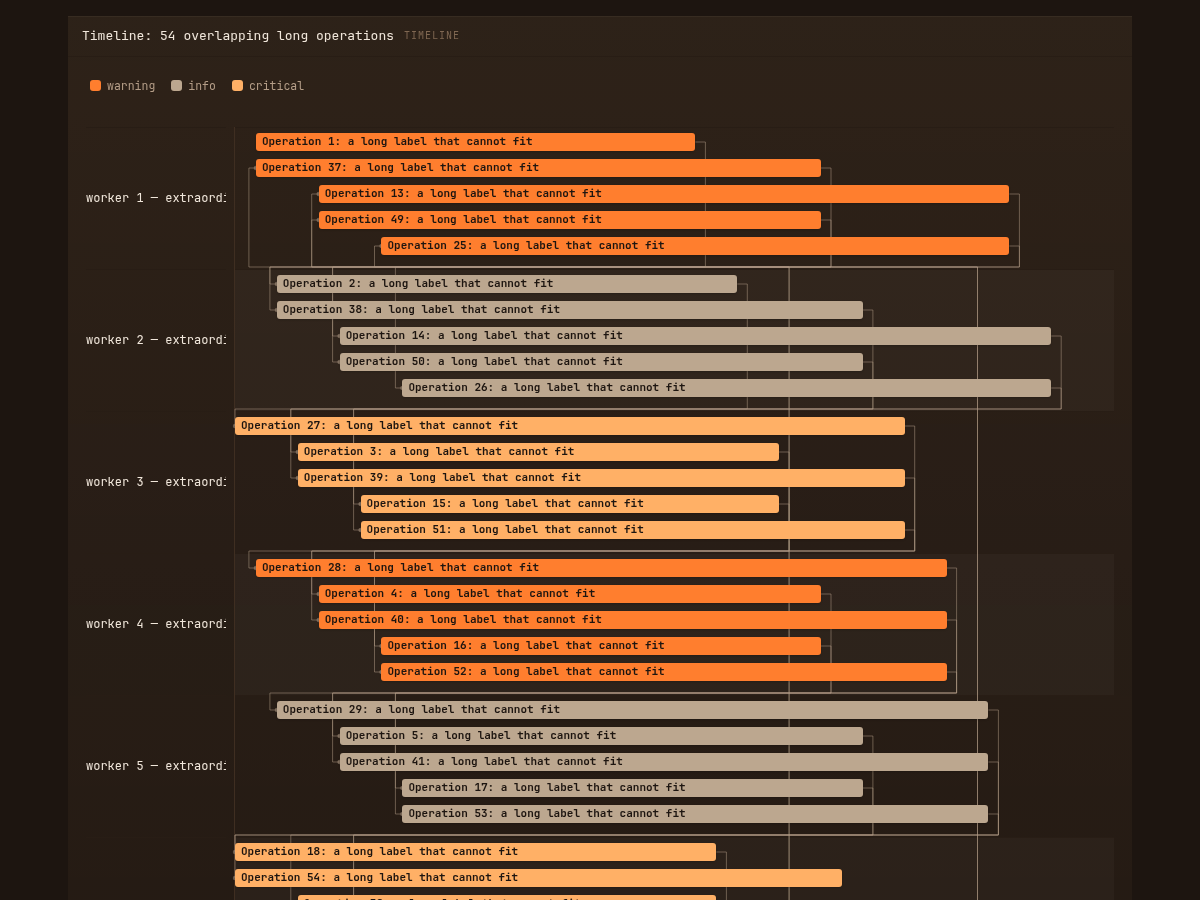
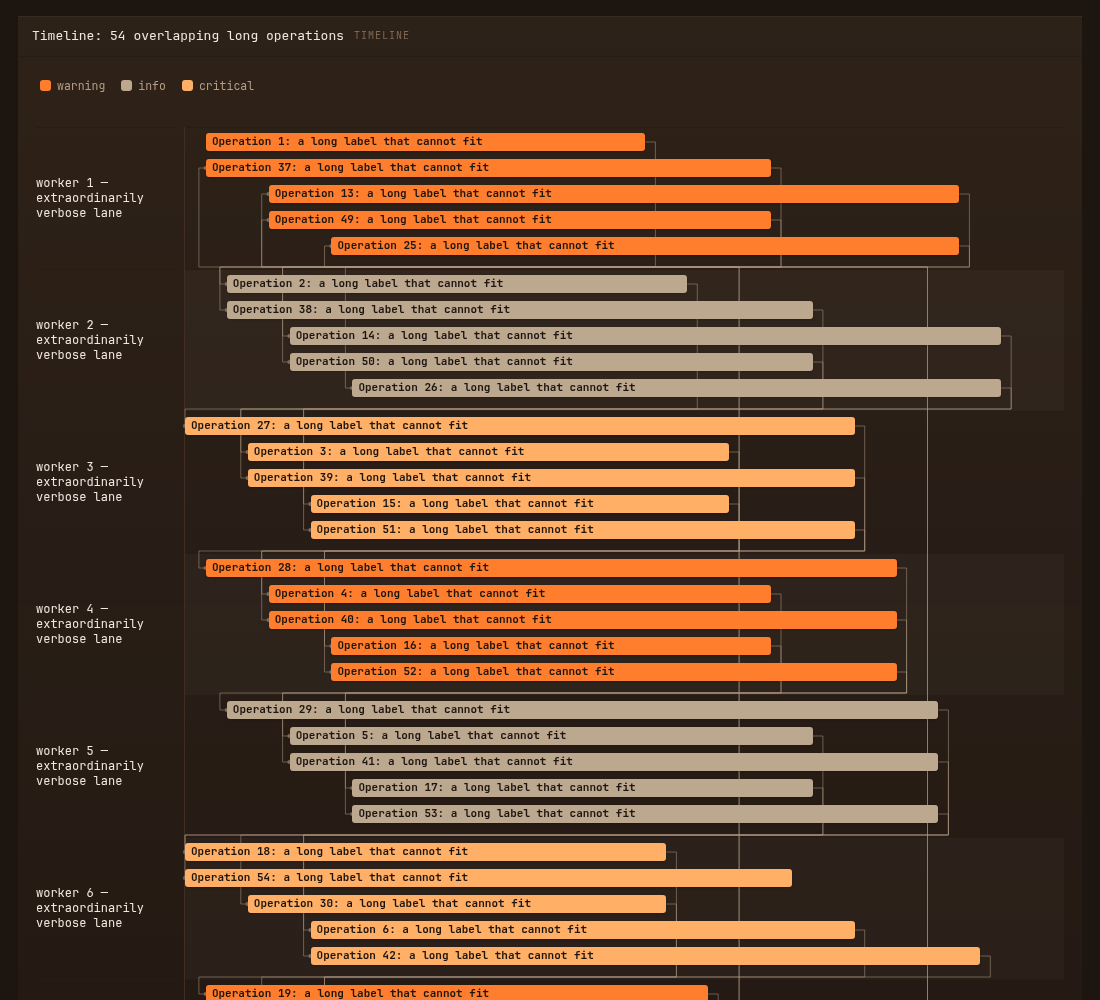
fix: wrap timeline lane labels

diff --git a/src/assets/index.html b/src/assets/index.html
@@ -536,8 +536,9 @@
   .tl { display: grid; grid-template-columns: var(--tl-gutter) 1fr; }
   .tl-gutter { position: relative; }
   .tl-lane-label { position: absolute; left: 0; right: 8px; display: flex; align-items: center;
-    font-size: 12px; color: var(--fg); overflow: hidden; text-overflow: ellipsis; white-space: nowrap;
-    border-top: 1px solid var(--line-soft); padding-right: 6px; }
+    font-size: 12px; color: var(--fg); overflow: hidden; border-top: 1px solid var(--line-soft); padding-right: 6px; }
+  .tl-lane-text { display: -webkit-box; width: 100%; overflow: hidden; line-height: 15px;
+    overflow-wrap: anywhere; -webkit-box-orient: vertical; -webkit-line-clamp: 4; line-clamp: 4; }
   .tl-plot { position: relative; overflow: visible; border-left: 1px solid var(--line); }
   .tl-band { position: absolute; left: 0; right: 0; border-top: 1px solid var(--line-soft); }
   .tl-band.alt { background: color-mix(in srgb, var(--fg) 3%, transparent); }
@@ -4147,6 +4148,7 @@
   // auto-detected. Dependency connectors, --event markers and a hover cursor
   // are drawn by hydrateTimelines() over an SVG overlay (see below).
   const TL_ROW_H = 26, TL_BAR_H = 18, TL_LANE_PAD = 6;
+  const TL_LANE_LABEL_W = 132, TL_LANE_LABEL_LINE_H = 15, TL_LANE_LABEL_MAX_LINES = 4;
   // Let short trace spans be inspected down to 1ms, regardless of how broad
   // the original timeline was. A brush can be nested repeatedly to reach that
   // precision even when one physical screen pixel covers more time initially.
@@ -4154,6 +4156,29 @@
   const TL_MIN_BRUSH_FRACTION = 0.001;
   let tlSeq = 0;
   const tlPayloads = {};   // per-render overlay payloads, consumed on hydrate
+  let tlLaneMeasureCtx = null;
+
+  function tlLaneLabelLines(label) {
+    if (!tlLaneMeasureCtx) {
+      tlLaneMeasureCtx = document.createElement("canvas").getContext("2d");
+      if (tlLaneMeasureCtx) tlLaneMeasureCtx.font = "12px system-ui, -apple-system, sans-serif";
+    }
+    const width = (text) => tlLaneMeasureCtx
+      ? tlLaneMeasureCtx.measureText(text).width : String(text).length * 6.5;
+    const words = String(label).trim().split(/\s+/).filter(Boolean);
+    if (!words.length) return 1;
+    let lines = 0, line = "";
+    for (const word of words) {
+      if (width(word) > TL_LANE_LABEL_W) {
+        if (line) { lines++; line = ""; }
+        lines += Math.ceil(width(word) / TL_LANE_LABEL_W);
+      } else if (!line) line = word;
+      else if (width(line + " " + word) <= TL_LANE_LABEL_W) line += " " + word;
+      else { lines++; line = word; }
+      if (lines >= TL_LANE_LABEL_MAX_LINES) return TL_LANE_LABEL_MAX_LINES;
+    }
+    return Math.min(TL_LANE_LABEL_MAX_LINES, lines + (line ? 1 : 0));
+  }
 
   function tlFmtDur(s) {
     s = Number(s);
@@ -4349,14 +4374,18 @@
         b.sub = sl;
       });
       const subCount = Math.max(1, subEnds.length);
-      const top = y, height = subCount * TL_ROW_H + TL_LANE_PAD * 2;
+      const labelLines = tlLaneLabelLines(lane);
+      const barsHeight = subCount * TL_ROW_H;
+      const labelHeight = labelLines * TL_LANE_LABEL_LINE_H + TL_LANE_PAD * 2;
+      const top = y, height = Math.max(barsHeight + TL_LANE_PAD * 2, labelHeight);
+      const barsTop = top + (height - barsHeight) / 2;
       list.forEach((b) => {
-        b.topPx = top + TL_LANE_PAD + b.sub * TL_ROW_H;
+        b.topPx = barsTop + b.sub * TL_ROW_H;
         b.laneTopPx = top;
         b.laneHeightPx = height;
         b.color = barColor(b, laneIndex);
       });
-      laneRows.push({ lane, top, height });
+      laneRows.push({ lane, top, height, labelLines });
       y += height;
     });
     const totalH = y;
@@ -4373,7 +4402,7 @@
     }).join("");
     const gutterHtml = laneRows.map((lr) => {
       const tip = `<b>Lane</b><br>${esc(lr.lane)}`;
-      return `<div class="tl-lane-label wm-x" data-tip="${attr(tip)}" style="top:${lr.top}px;height:${lr.height}px">${esc(lr.lane)}</div>`;
+      return `<div class="tl-lane-label wm-x" data-tip="${attr(tip)}" style="top:${lr.top}px;height:${lr.height}px"><span class="tl-lane-text">${esc(lr.lane)}</span></div>`;
     }).join("");
     const bandsHtml = laneRows.map((lr, i) =>
       `<div class="tl-band${i % 2 ? " alt" : ""}" style="top:${lr.top}px;height:${lr.height}px"></div>`).join("");

diff --git a/graph-torture-report/index.html b/graph-torture-report/index.html
@@ -40,7 +40,7 @@
   <article class="bug"><h3>Bug 8 — Dense heatmap has clipped axes and exceeds the viewport</h3><p><span class="severity">High</span> · The rightmost column labels/cells are cut at the panel edge and lower rows extend beyond the screenshot. At this density it has neither an overview nor a clearly discoverable way to inspect omitted cells.</p><figure><img src="screenshots/heatmap_dense.png" alt="30 by 30 heatmap clipped on right and bottom"><figcaption>heatmap_dense</figcaption></figure></article>
   <article class="bug"><h3>Bug 9 — Box plot uses extreme horizontal whitespace while scale hides boxes</h3><p><span class="severity">High</span> · One huge whisker pushes the compact distributions into tiny marks near the left. Thirty verbose cohort descriptions produce an unusually tall tile, so the comparison is not visible above the fold.</p><figure><img src="screenshots/box_many.png" alt="Tall box plot with tiny boxes due to one huge whisker"><figcaption>box_many</figcaption></figure></article>
   <article class="bug"><h3>Bug 10 — Co-located map data reduces 299 points to one unexplained cell</h3><p><span class="severity">Medium</span> · The summary says “299 plotted · 1 cells”, but the dense point cluster is represented by a single small mark. Its aggregation and labels are not visible without interaction, making this failure mode easy to miss.</p><figure><img src="screenshots/map_collisions.png" alt="Map with 299 points collapsed to one cell"><figcaption>map_collisions</figcaption></figure></article>
-  <article class="bug"><h3>Bug 11 — Timeline starts clipping lane names and grows beyond the viewport</h3><p><span class="severity">High</span> · The left gutter truncates every verbose worker name (for example, “worker 1 — extraord…”). Fifty-four heavily overlapping bars create a very tall visual with substantial content below the captured viewport.</p><figure><img src="screenshots/timeline_clash.png" alt="Timeline with truncated lane names and many overlaps"><figcaption>timeline_clash</figcaption></figure></article>
+  <article class="bug"><h3>Bug 11 — Timeline starts clipping lane names and grows beyond the viewport</h3><p><span class="severity">Partially resolved</span> · Lane names now wrap to as many as four vertically centred lines, with overflow clamped and the complete name retained in the rich tooltip. Fifty-four heavily overlapping bars still create a very tall visual with substantial content below the captured viewport.</p><figure><img src="screenshots/timeline_clash.png" alt="Timeline with wrapped lane names and many overlapping bars"><figcaption>timeline_clash — refreshed after the lane-label wrapping fix</figcaption></figure></article>
   <article class="bug"><h3>Bug 12 — Sequence diagram clips message text at both edges</h3><p><span class="severity">Resolved locally</span> · The message-to-arrow gap is now 16px. Labels begin inside the SVG and wrap on word boundaries to the narrower of their group frame or available viewport space; the row expands so the next arrow remains clear.</p><figure><img src="screenshots/sequence_crowded.png" alt="Crowded sequence diagram with visibly wrapped labels"><figcaption>sequence_crowded — refreshed after the wrapping fix</figcaption></figure></article>
 
   <h2>Rendered clean enough to defer</h2>

diff --git a/tests/e2e/fixtures/seed.ts b/tests/e2e/fixtures/seed.ts
@@ -55,8 +55,8 @@ CREATE VIEW widget_flows AS SELECT * FROM (VALUES
 -- Timeline (Gantt) fixture: a small deploy pipeline on a relative-seconds axis
 -- with two lanes, an overlap (→ sublane), a colour category, and a dependency.
 CREATE VIEW deploy_timeline AS SELECT * FROM (VALUES
-  ('build',  'compile',   0.0,  40.0, 'ok',     's1', NULL),
-  ('build',  'lint',      5.0,  30.0, 'ok',     's2', NULL),   -- overlaps compile → sublane
+  ('build worker with an extraordinarily verbose name used for wrapping', 'compile', 0.0, 40.0, 'ok', 's1', NULL),
+  ('build worker with an extraordinarily verbose name used for wrapping', 'lint',    5.0, 30.0, 'ok', 's2', NULL), -- overlaps compile → sublane
   ('deploy', 'push',     40.0,  70.0, 'ok',     's3', 's1'),
   ('deploy', 'migrate',  70.0,  95.0, 'failed', 's4', 's1,s3') -- fan-in; s1 also fans out to push
 ) t(lane, task, t0, t1, status, sid, parent);

diff --git a/tests/e2e/specs/timeline.spec.ts b/tests/e2e/specs/timeline.spec.ts
@@ -9,7 +9,13 @@ test.describe('timeline tile', () => {
 
     // Two lanes → two lane labels in the gutter.
     await expect(panel.locator('.tl-lane-label')).toHaveCount(2);
-    await expect(panel.locator('.tl-lane-label', { hasText: 'build' })).toBeVisible();
+    const longLane = panel.locator('.tl-lane-label', { hasText: 'build' });
+    await expect(longLane).toBeVisible();
+    const wrappedLines = await longLane.locator('.tl-lane-text').evaluate((text) => {
+      const style = getComputedStyle(text);
+      return Math.round(text.getBoundingClientRect().height / parseFloat(style.lineHeight));
+    });
+    expect(wrappedLines).toBe(4);
 
     // Four bars.
     await expect(panel.locator('.tl-bar')).toHaveCount(4);
